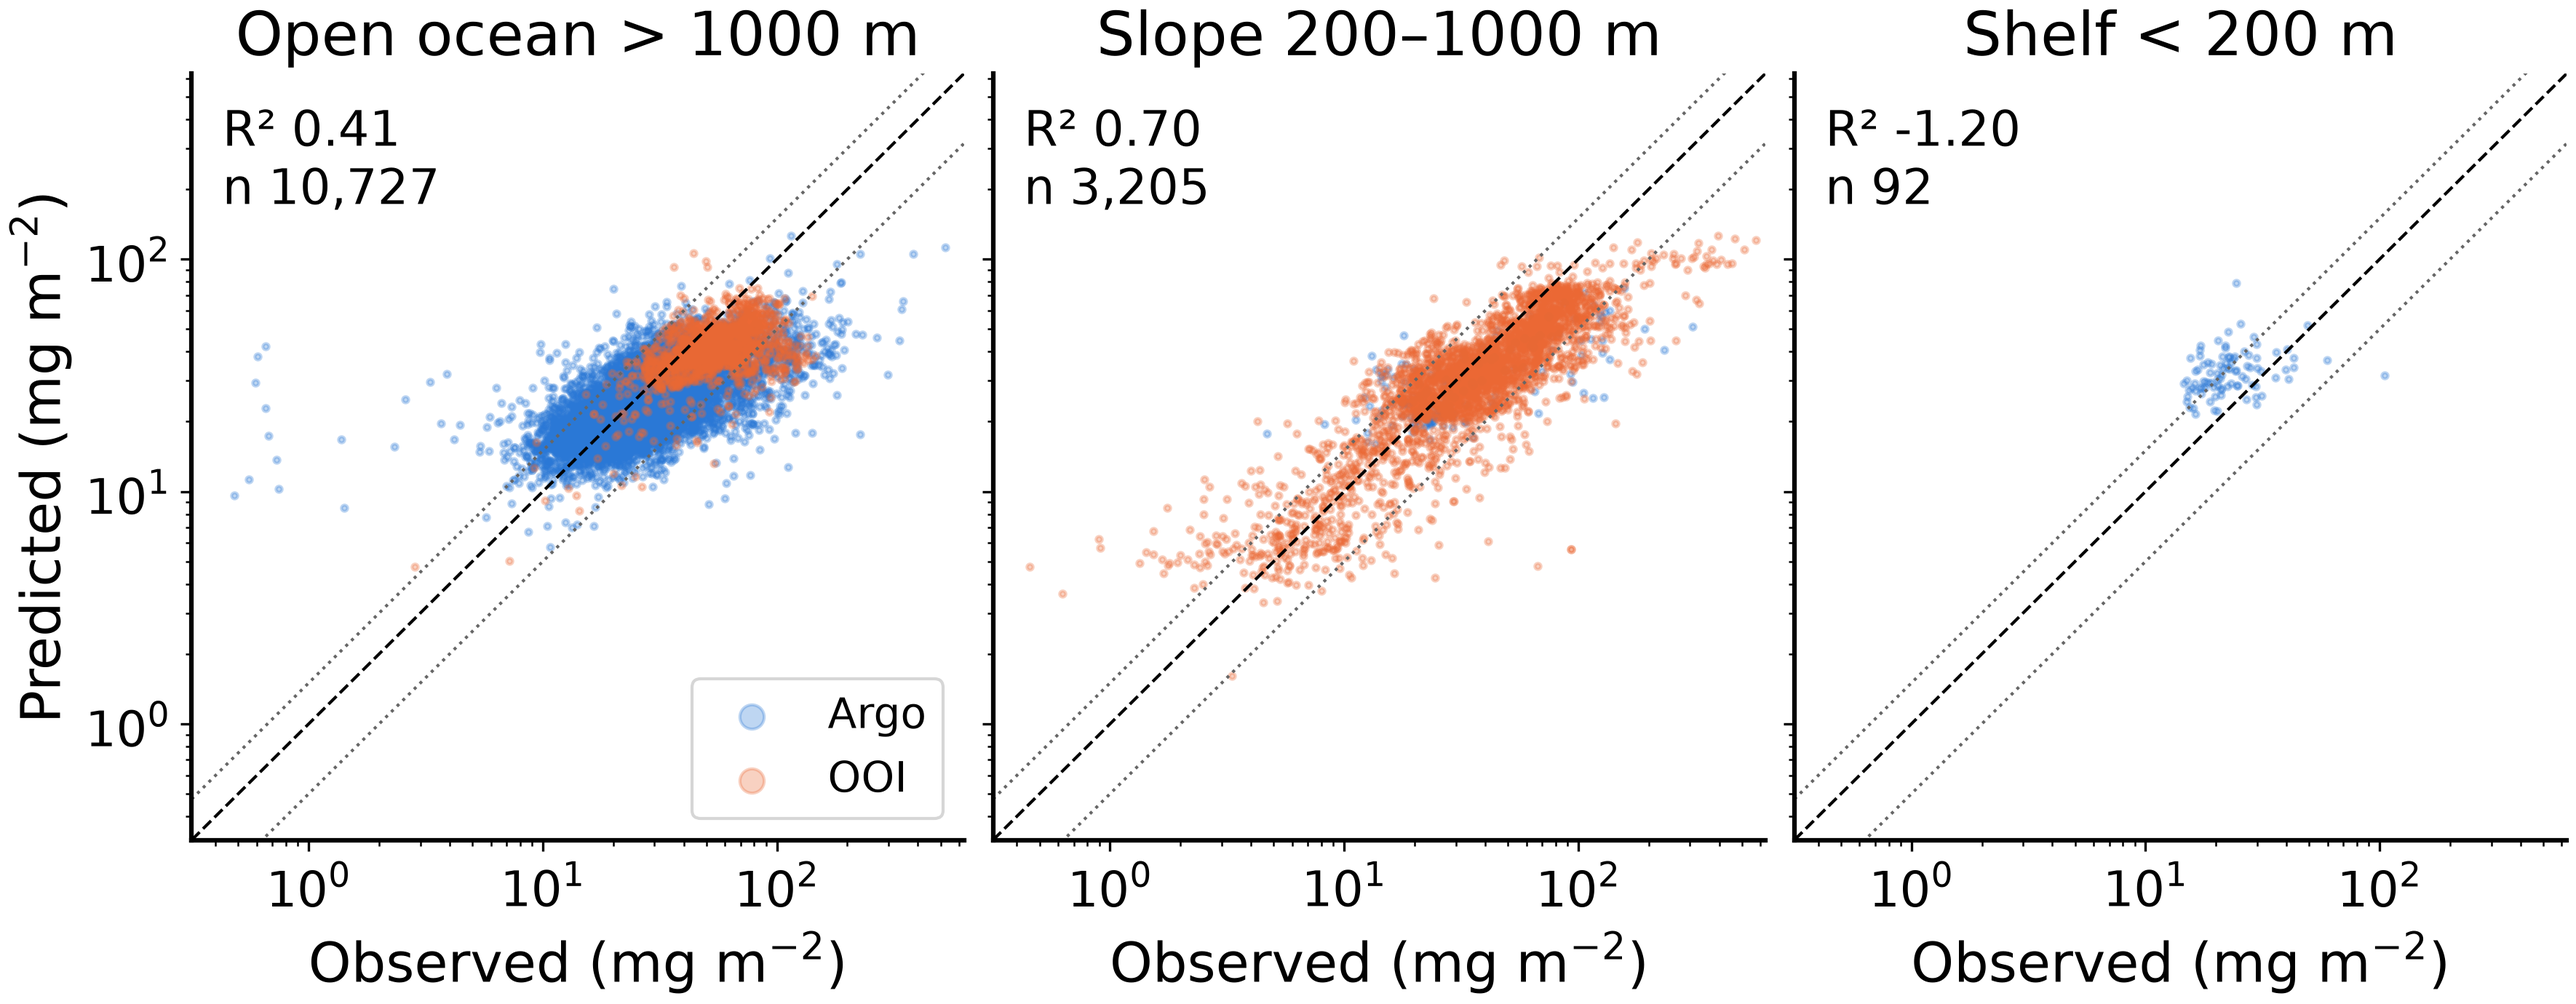
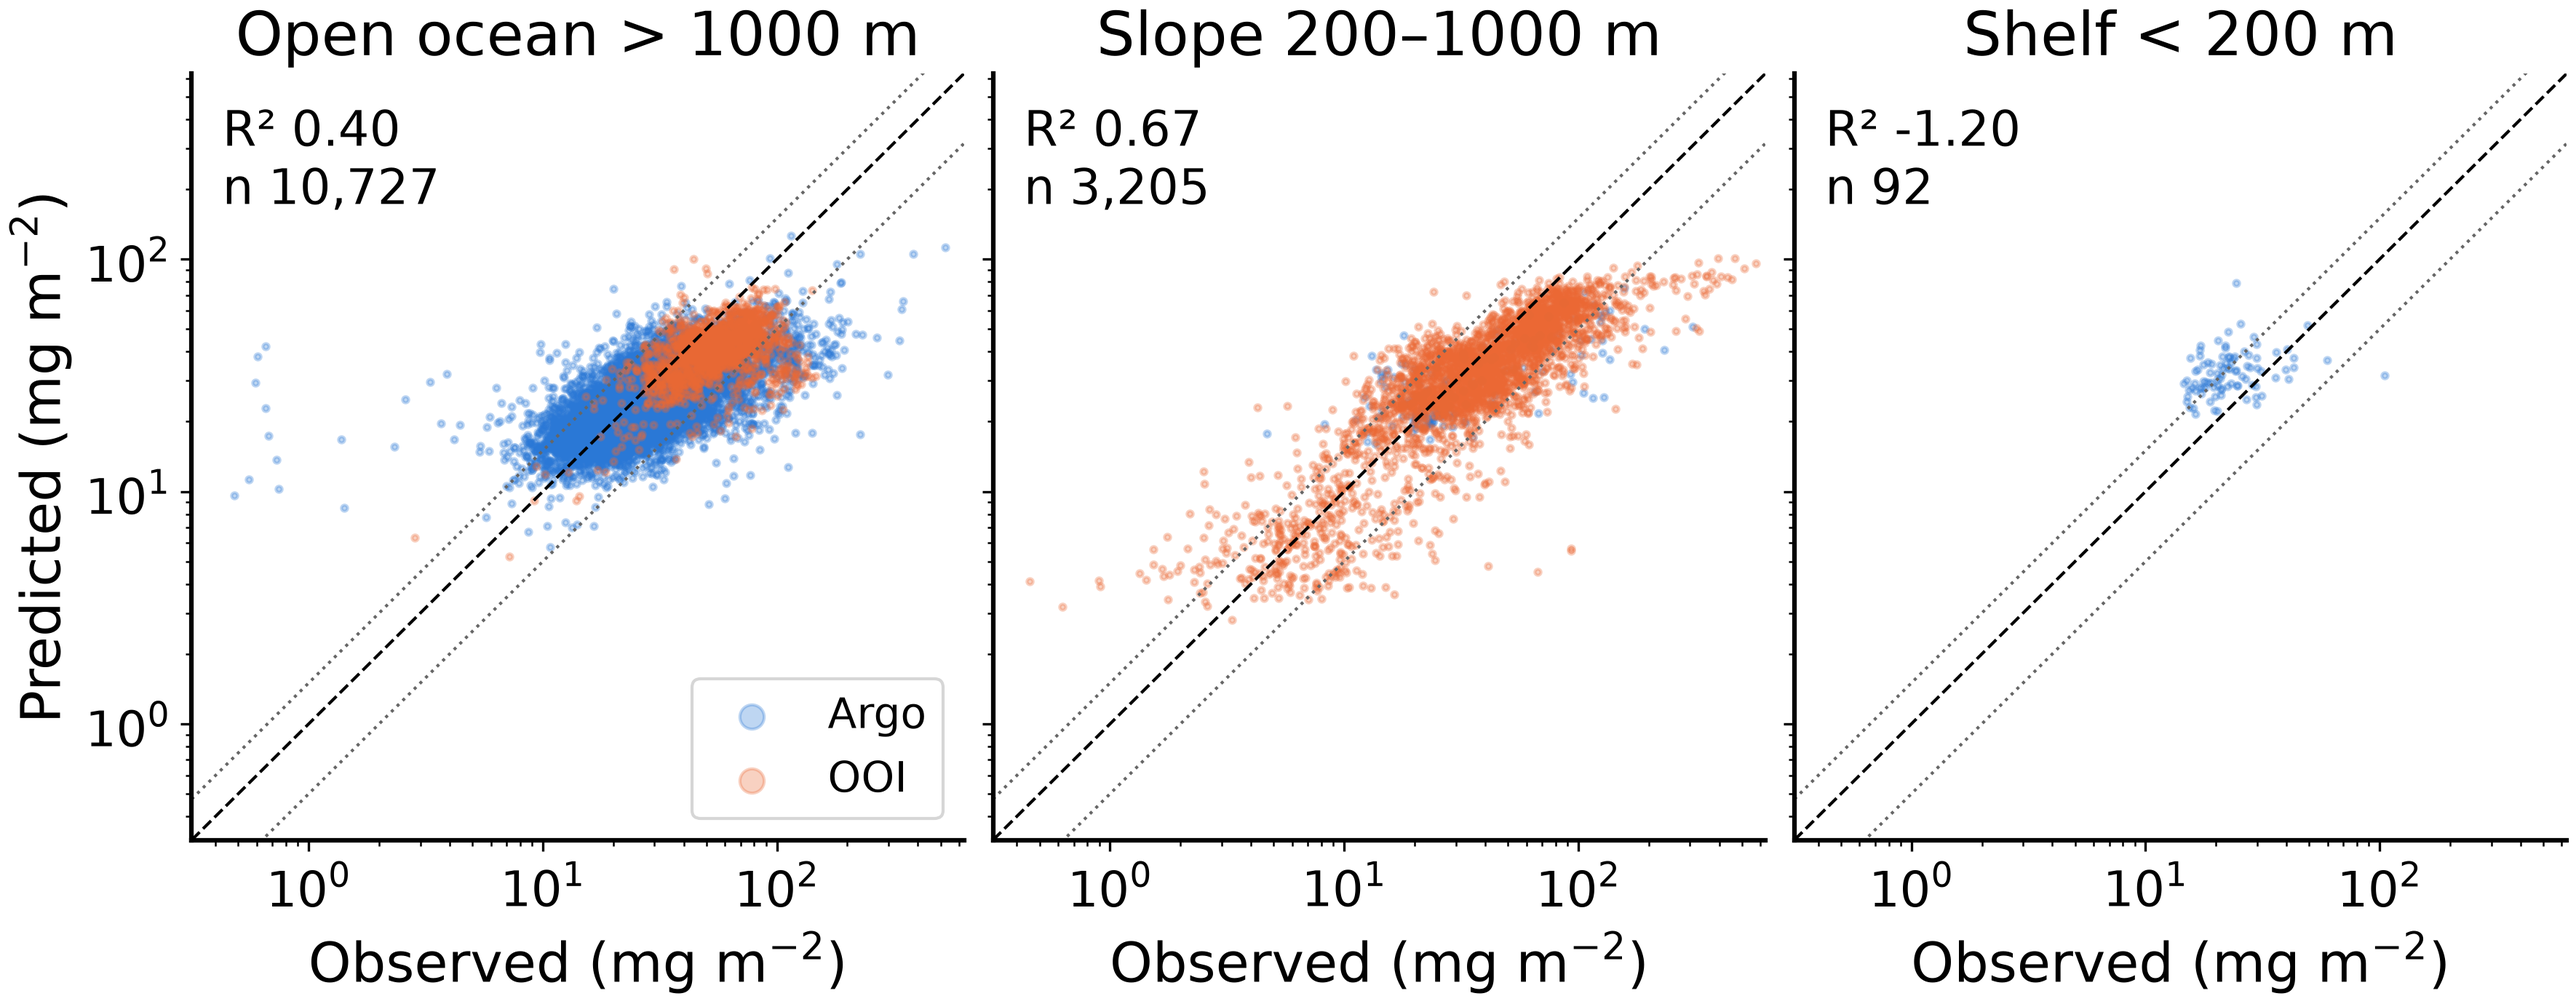
Figure 2 without insets, legend at right, simpler caption; block 2 from the as-Argo model (platform offset for OOI); Methods and Key Points updated

diff --git a/poster/scripts/fig_data_map.py b/poster/scripts/fig_data_map.py
@@ -6,8 +6,9 @@ this runs in seconds under `make`.
 
 Colour is the water-depth class, marker is the platform. Argo profiles are
 small dots; OOI has only a handful of sites, so its instruments are large
-outlined diamonds, and the two coastal arrays, where the depth classes mix,
-get insets with the 200 m and 1000 m contours (the class boundaries).
+outlined diamonds. Eli (2026-11-24): the two coastal insets (Endurance &
+Cabled, Pioneer) were dropped as clutter; the legend takes their place on the
+right. INSETS and inset_grids.py are kept in case the insets come back.
 """
 
 from pathlib import Path
@@ -25,14 +26,14 @@ DATA_RELEASE = "2026_11_23"
 BATHY = Path.home() / "shared-public" / "chla-z" / "bathymetry"
 TABLE = BATHY / f"water_depth_{DATA_RELEASE}.parquet"
 OUT = Path(__file__).resolve().parents[1] / "figures" / "fig_data_map.png"
-HEIGHT_IN = 4.5
+HEIGHT_IN = 3.9
 
 # Categorical slots 1-3 of the dataviz reference palette, in fixed order; the
 # first three are the ones that validate for all pairs (scatter/map use).
 CLASSES = {
-    "open ocean": ("#2a78d6", "Open ocean > 1000 m"),
-    "slope": ("#eb6834", "Slope 200–1000 m"),
-    "shelf": ("#1baf7a", "Shelf < 200 m"),
+    "open ocean": ("#2a78d6", "Open ocean\n> 1000 m"),
+    "slope": ("#eb6834", "Slope\n200–1000 m"),
+    "shelf": ("#1baf7a", "Shelf\n< 200 m"),
 }
 LAND = "#e4e3df"
 INK = "#0b0b0b"
@@ -76,8 +77,8 @@ def main():
 
     fig = plt.figure(figsize=(COLUMN_WIDTH_IN, HEIGHT_IN), layout="none")
     proj = ccrs.PlateCarree()
-    # World map on the left, two insets stacked on the right, legend underneath.
-    ax = fig.add_axes([0.0, 0.17, 0.74, 0.83], projection=proj)
+    # World map on the left, legend on the right.
+    ax = fig.add_axes([0.0, 0.0, 0.72, 1.0], projection=proj)
     ax.set_extent([-180, 180, -80, 82], crs=proj)
     ax.add_feature(cfeature.LAND.with_scale("110m"), facecolor=LAND, edgecolor="none", zorder=1)
     ax.coastlines("110m", lw=0.5, color=INK_2, zorder=2)
@@ -91,23 +92,6 @@ def main():
                     bbox=dict(boxstyle="round,pad=0.15", fc="white", ec="none", alpha=0.85),
                     arrowprops=dict(arrowstyle="-", color=INK, lw=1.0, shrinkB=6))
 
-    for i, (name, (title, lo0, lo1, la0, la1)) in enumerate(INSETS.items()):
-        ia = fig.add_axes([0.765, 0.60 - 0.42 * i, 0.235, 0.33], projection=proj)
-        ia.set_extent([lo0, lo1, la0, la1], crs=proj)
-        ia.add_feature(cfeature.LAND.with_scale("50m"), facecolor=LAND, edgecolor="none", zorder=1)
-        ia.coastlines("50m", lw=0.5, color=INK_2, zorder=2)
-        ia.spines["geo"].set_edgecolor(INK_2)
-        g = pd.read_parquet(BATHY / f"etopo2022_{name}.parquet")
-        z = g.pivot(index="latitude", columns="longitude", values="z")
-        # Contours unlabelled (no room at this size); the caption names them.
-        ia.contour(z.columns, z.index, -z.to_numpy(), levels=[200, 1000],
-                        colors=INK_2, linewidths=1.0, linestyles=["solid", "dashed"], transform=proj, zorder=2)
-        box = (a["lon"].between(lo0, lo1)) & (a["lat"].between(la0, la1))
-        scatter_argo(ia, a[box], 12)
-        scatter_ooi(ia, o, 110)
-        ia.set_title(title, fontsize=18, color=INK, pad=4)
-        ax.indicate_inset([lo0, la0, lo1 - lo0, la1 - la0], edgecolor=INK_2, lw=0.8, alpha=1)
-
     cls_h = [Line2D([], [], ls="none", marker="s", ms=14, mfc=c, mec="none", label=lab)
              for c, lab in CLASSES.values()]
     plat_h = [
@@ -115,12 +99,9 @@ def main():
                label="Argo profile"),
         Line2D([], [], ls="none", marker="D", ms=11, mfc="white", mec=INK, mew=1.2,
                label="OOI instrument"),
-        Line2D([], [], ls="none", label=" "),
     ]
-    handles = [h for pair in zip(cls_h, plat_h) for h in pair]
-    fig.legend(handles=handles, loc="lower left", bbox_to_anchor=(0.0, 0.0), ncol=3,
-               frameon=False, fontsize=20, handletextpad=0.3, columnspacing=0.8,
-               borderaxespad=0.1, labelspacing=0.3)
+    fig.legend(handles=plat_h + cls_h, loc="center left", bbox_to_anchor=(0.73, 0.5), ncol=1,
+               frameon=False, fontsize=19, handletextpad=0.3, borderaxespad=0.1, labelspacing=0.35)
     fig.savefig(OUT, dpi=DPI, facecolor="white")
     plt.close(fig)
     print(f"wrote {OUT}")

diff --git a/poster/scripts/fig_profiles_by_class.py b/poster/scripts/fig_profiles_by_class.py
@@ -23,7 +23,7 @@ Eli (2026-11-24) replaced the skill-by-depth figure with:
 
 Predictions: out-of-fold, Argo + OOI model, space-time split (1° x 30 d), QC'd
 data (OOI exclusion, fish-pace-datasets#13), all OOI windows. RUN and DESIGN
-below pick the run; switch them when the platform-input decision is made.
+below pick the run (predicted as Argo plus a per-depth OOI offset).
 Water-depth class: ETOPO 2022 at the profile.
 """
 
@@ -37,8 +37,11 @@ from scipy.ndimage import uniform_filter1d
 from poster_style import COLUMN_WIDTH_IN, DPI, apply_style
 
 SHARED = Path.home() / "shared-public" / "chla-z"
-RUN = SHARED / "split-design" / "runs" / "window-weights"
-DESIGN = "all"
+# Eli, 2026-11-24: the model as a map would use it. Trained with the platform input,
+# every row predicted as Argo, OOI rows then shifted by a per-bin OOI offset
+# (run_platform.py, design "argo_bias").
+RUN = SHARED / "split-design" / "runs" / "platform"
+DESIGN = "argo_bias"
 DEPTH = SHARED / "bathymetry" / "water_depth_2026_11_23.parquet"
 OUT = Path(__file__).resolve().parents[1] / "figures" / "fig_profiles_by_class.png"
 CLASSES = [("open ocean", "Open ocean > 1000 m"), ("slope", "Slope 200–1000 m"), ("shelf", "Shelf < 200 m")]
